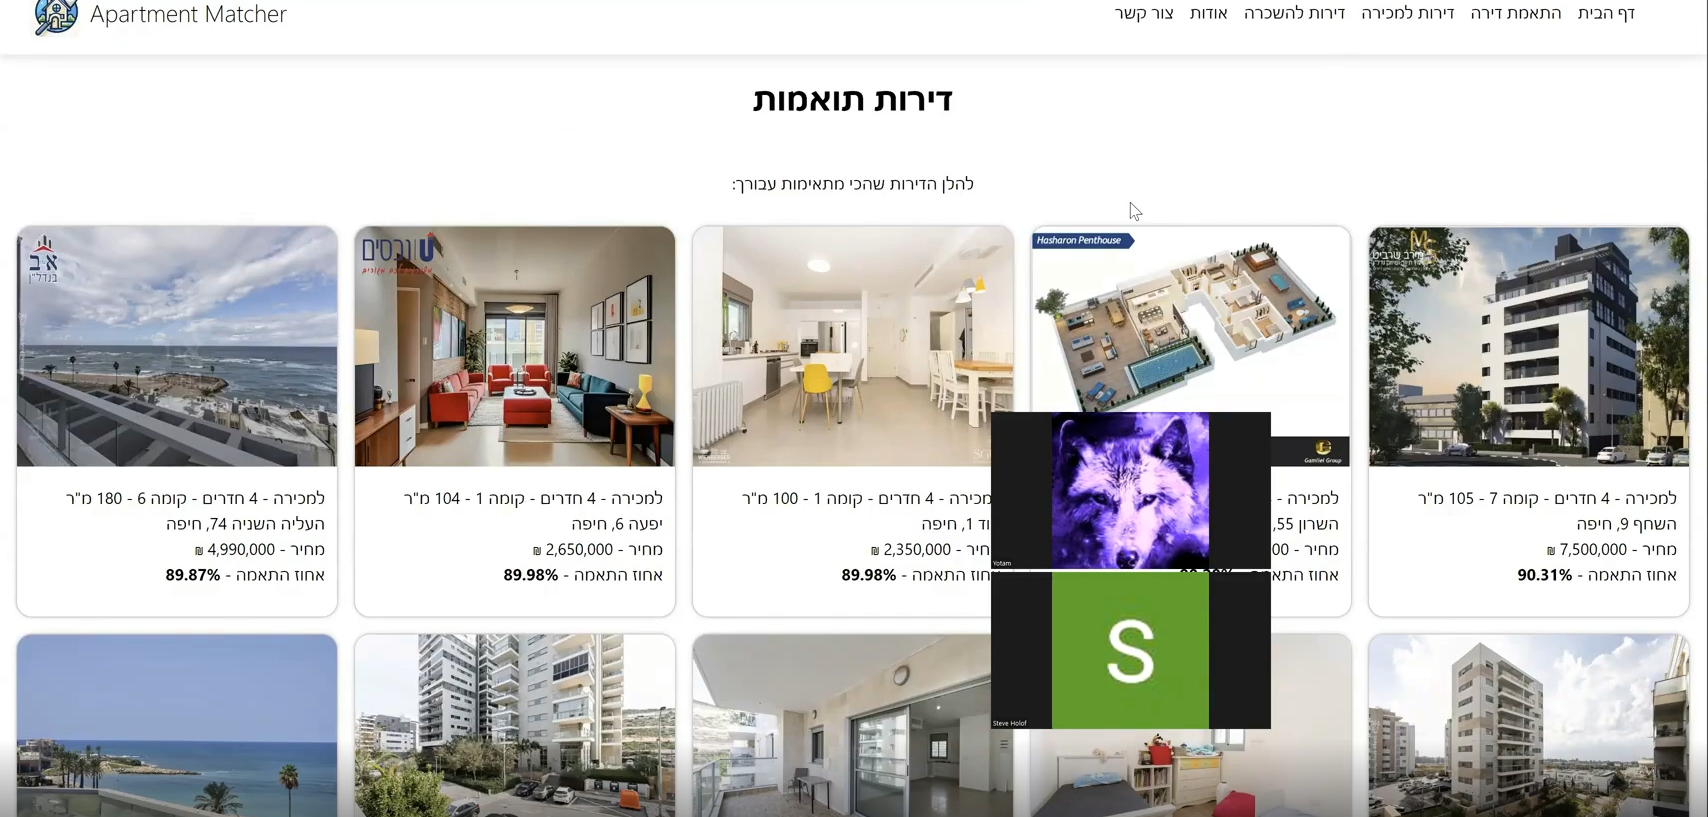
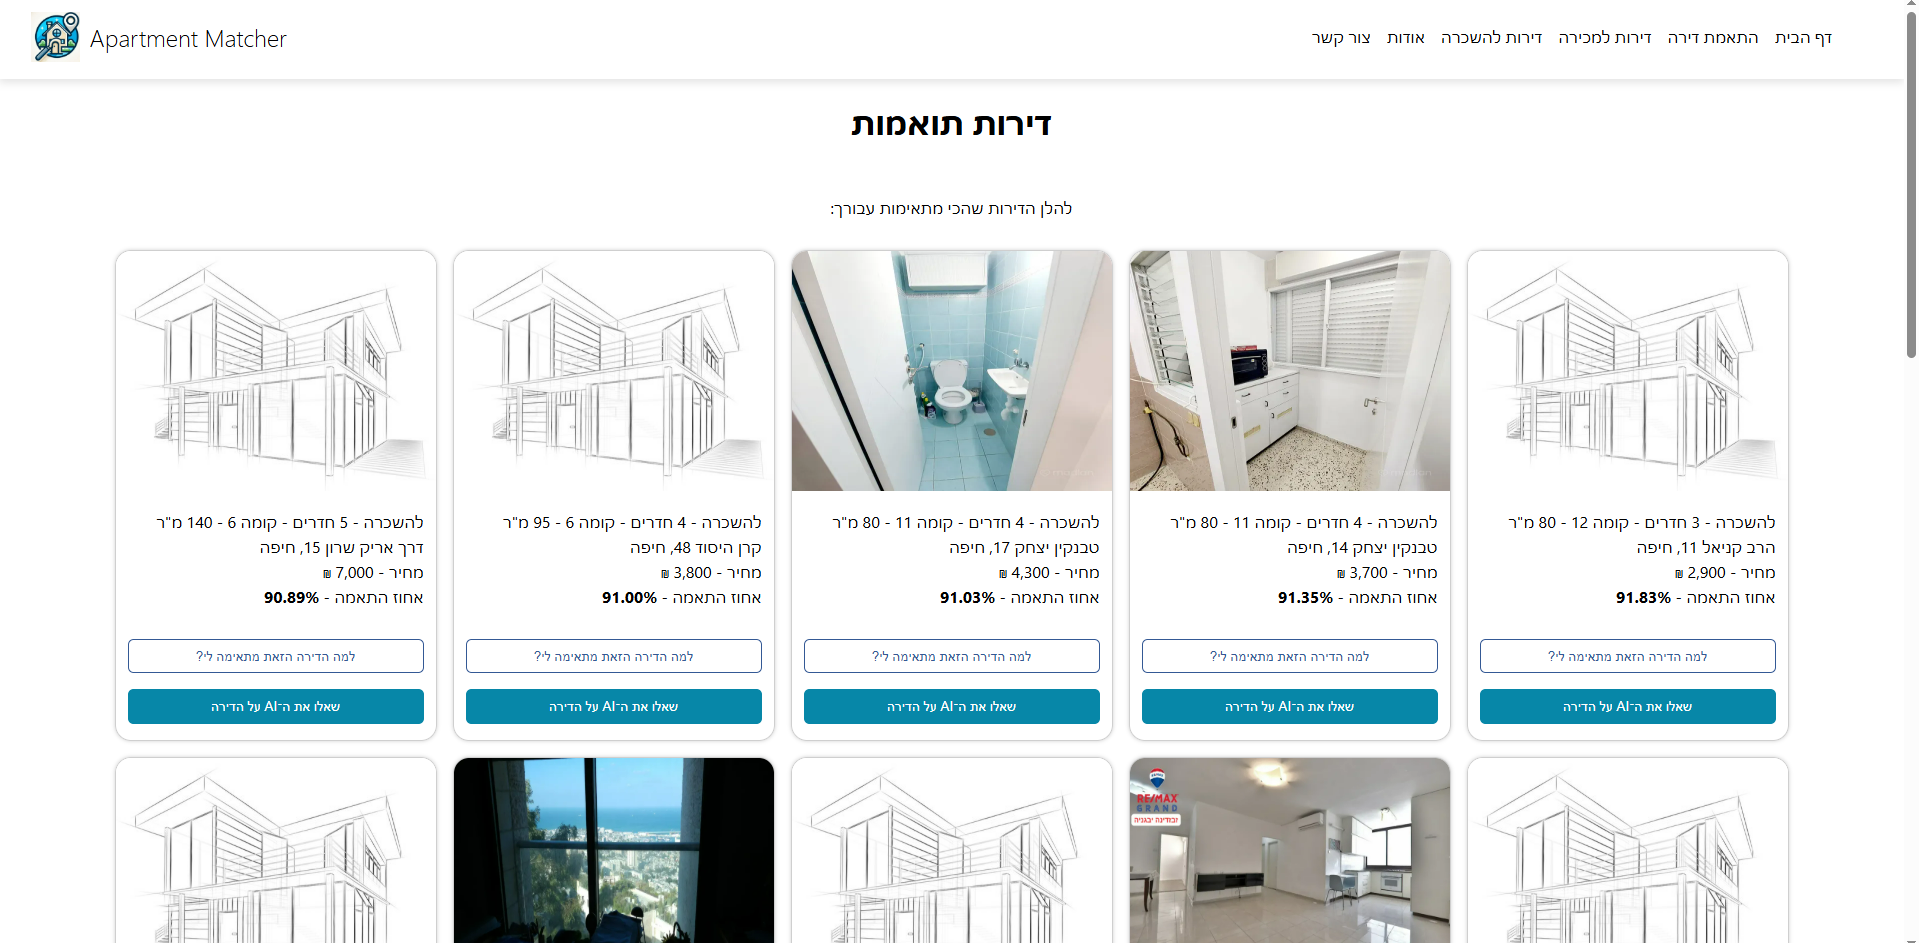
feat: Update project section to showcase AI-Powered Apartment Recommendation Platform

diff --git a/index.html b/index.html
@@ -490,6 +490,136 @@
 
                 </article>
 
+                
+                <!-- Apartment Recommender -->
+
+                <article class="project-card">
+
+                    <input
+                        type="checkbox"
+                        id="video-apartment"
+                        class="modal-toggle"
+                    >
+
+                    <div class="video-thumbnail">
+                        <label
+                            for="video-apartment"
+                            aria-label="Play ML Apartment Recommender demo"
+                        >
+                            <img
+                                src="./assets/images/apartment.png"
+                                alt="Machine Learning Apartment Recommender"
+                                loading="lazy"
+                            >
+
+                            <div class="play-button" aria-hidden="true">▶</div>
+                        </label>
+                    </div>
+
+                    <span class="project-type">
+                        Generative AI · Machine Learning · Personalization
+                    </span>
+
+                    <div class="modal">
+                        <div class="modal-content">
+                            <iframe
+                                class="video-frame"
+                                src="https://www.youtube.com/embed/wNxZ24Iucl4"
+                                title="AI-Powered Apartment Recommender demo"
+                                frameborder="0"
+                                allow="accelerometer; autoplay; clipboard-write;
+                                    encrypted-media; gyroscope;
+                                    picture-in-picture; web-share"
+                                allowfullscreen
+                            ></iframe>
+
+                            <label
+                                for="video-apartment"
+                                class="overlay"
+                                aria-label="Close video"
+                            ></label>
+
+                            <label
+                                for="video-apartment"
+                                class="close"
+                                aria-label="Close video"
+                            >
+                                ✕
+                            </label>
+                        </div>
+                    </div>
+
+                    <div class="project-content">
+                        <h3 class="project-name">
+                            AI-Powered Apartment Recommendation Platform
+                        </h3>
+
+                        <p class="project-desc">
+                            Built an AI-driven real estate platform that combines machine
+                            learning with generative AI to deliver personalized apartment
+                            recommendations. Users can describe their ideal apartment in
+                            natural language, receive ranked matches, understand why each
+                            property fits their preferences, and ask contextual questions
+                            about individual apartments.
+                        </p>
+
+                        <div class="project-highlights">
+                            <span>
+                                <i data-lucide="sparkles"></i>
+                                Natural-language preference extraction
+                            </span>
+
+                            <span>
+                                <i data-lucide="brain-circuit"></i>
+                                ML-powered apartment matching
+                            </span>
+
+                            <span>
+                                <i data-lucide="messages-square"></i>
+                                Explainable AI and apartment Q&amp;A
+                            </span>
+                        </div>
+                    </div>
+
+                    <div class="project-footer">
+                        <div class="tech-used">
+                            <span class="tech-tag">Generative AI</span>
+                            <span class="tech-tag">Gemini API</span>
+                            <span class="tech-tag">ML</span>
+                            <span class="tech-tag">Python</span>
+                            <span class="tech-tag">scikit-learn</span>
+                            <span class="tech-tag">React</span>
+                            <span class="tech-tag">Node.js</span>
+                            <span class="tech-tag">MongoDB</span>
+                            <span class="tech-tag">Docker</span>
+                            <span class="tech-tag">Web Scraping</span>
+                             <span class="tech-tag">Recommendation System</span>
+                        </div>
+
+                        <div class="project-links">
+                            <a
+                                href="https://apartment-ai-frontend.onrender.com"
+                                target="_blank"
+                                rel="noopener noreferrer"
+                                class="project-link"
+                            >
+                                <i data-lucide="external-link"></i>
+                                Live Website
+                            </a>
+
+                            <a
+                                href="https://github.com/pazgu/Apartment_AI_matcher"
+                                target="_blank"
+                                rel="noopener noreferrer"
+                                class="project-link"
+                            >
+                                <i data-lucide="github"></i>
+                                GitHub
+                            </a>
+                        </div>
+                    </div>
+                </article>
+
                 <!-- Hierarchical Catalog -->
 
                 <article class="project-card">
@@ -596,124 +726,6 @@
                         <div class="project-links">
                             <a
                                 href="https://github.com/pazgu/StockBox---Catalog-Tree-Navigation"
-                                target="_blank"
-                                rel="noopener noreferrer"
-                            >
-                                <i class="devicon-github-original"></i>
-                                View Code
-                                <i data-lucide="arrow-up-right"></i>
-                            </a>
-                        </div>
-                    </div>
-
-                </article>
-
-
-                <!-- Apartment Recommender -->
-
-                <article class="project-card">
-
-                    <input
-                        type="checkbox"
-                        id="video-apartment"
-                        class="modal-toggle"
-                    >
-
-                    <div class="video-thumbnail">
-                        <label
-                            for="video-apartment"
-                            aria-label="Play ML Apartment Recommender demo"
-                        >
-                            <img
-                                src="./assets/images/apartment.png"
-                                alt="Machine Learning Apartment Recommender"
-                                loading="lazy"
-                            >
-
-                            <div class="play-button" aria-hidden="true">▶</div>
-                        </label>
-                    </div>
-
-                    <span class="project-type">
-                         Machine Learning · Personalization
-                    </span>
-
-                    <div class="modal">
-                        <div class="modal-content">
-
-                            <iframe
-                                class="video-frame"
-                                src="https://www.youtube.com/embed/wNxZ24Iucl4"
-                                title="ML Apartment Recommender demo"
-                                frameborder="0"
-                                allow="accelerometer; autoplay; clipboard-write;
-                                    encrypted-media; gyroscope;
-                                    picture-in-picture; web-share"
-                                allowfullscreen
-                            ></iframe>
-
-                            <label
-                                for="video-apartment"
-                                class="overlay"
-                                aria-label="Close video"
-                            ></label>
-
-                            <label
-                                for="video-apartment"
-                                class="close"
-                                aria-label="Close video"
-                            >
-                                ✕
-                            </label>
-
-                        </div>
-                    </div>
-
-                    <div class="project-content">
-                        <h3 class="project-name">
-                            ML Apartment Recommendation Platform
-                        </h3>
-
-                        <p class="project-desc">
-                            Developed a data-driven apartment discovery product that
-                            aggregates listings and translates user preferences such as
-                            budget, location and amenities into personalized
-                            recommendations. Combined data collection, filtering and
-                            machine-learning logic to reduce the effort required to
-                            identify relevant properties across multiple cities.
-                        </p>
-
-                        <div class="project-highlights">
-                            <span>
-                                <i data-lucide="database"></i>
-                                Automated data collection
-                            </span>
-
-                            <span>
-                                <i data-lucide="brain-circuit"></i>
-                                ML recommendation logic
-                            </span>
-
-                            <span>
-                                <i data-lucide="sliders-horizontal"></i>
-                                Preference-based matching
-                            </span>
-                        </div>
-                    </div>
-
-                    <div class="project-footer">
-                        <div class="tech-used">
-                            <span class="tech-tag">Machine Learning</span>
-                            <span class="tech-tag">Recommendation Systems</span>
-                            <span class="tech-tag">Data Processing</span>
-                            <span class="tech-tag">Python</span>
-                            <span class="tech-tag">React</span>
-                            <span class="tech-tag">Web Scraping</span>
-                        </div>
-
-                        <div class="project-links">
-                            <a
-                                href="https://github.com/pazgu/Apartment_matcher"
                                 target="_blank"
                                 rel="noopener noreferrer"
                             >
